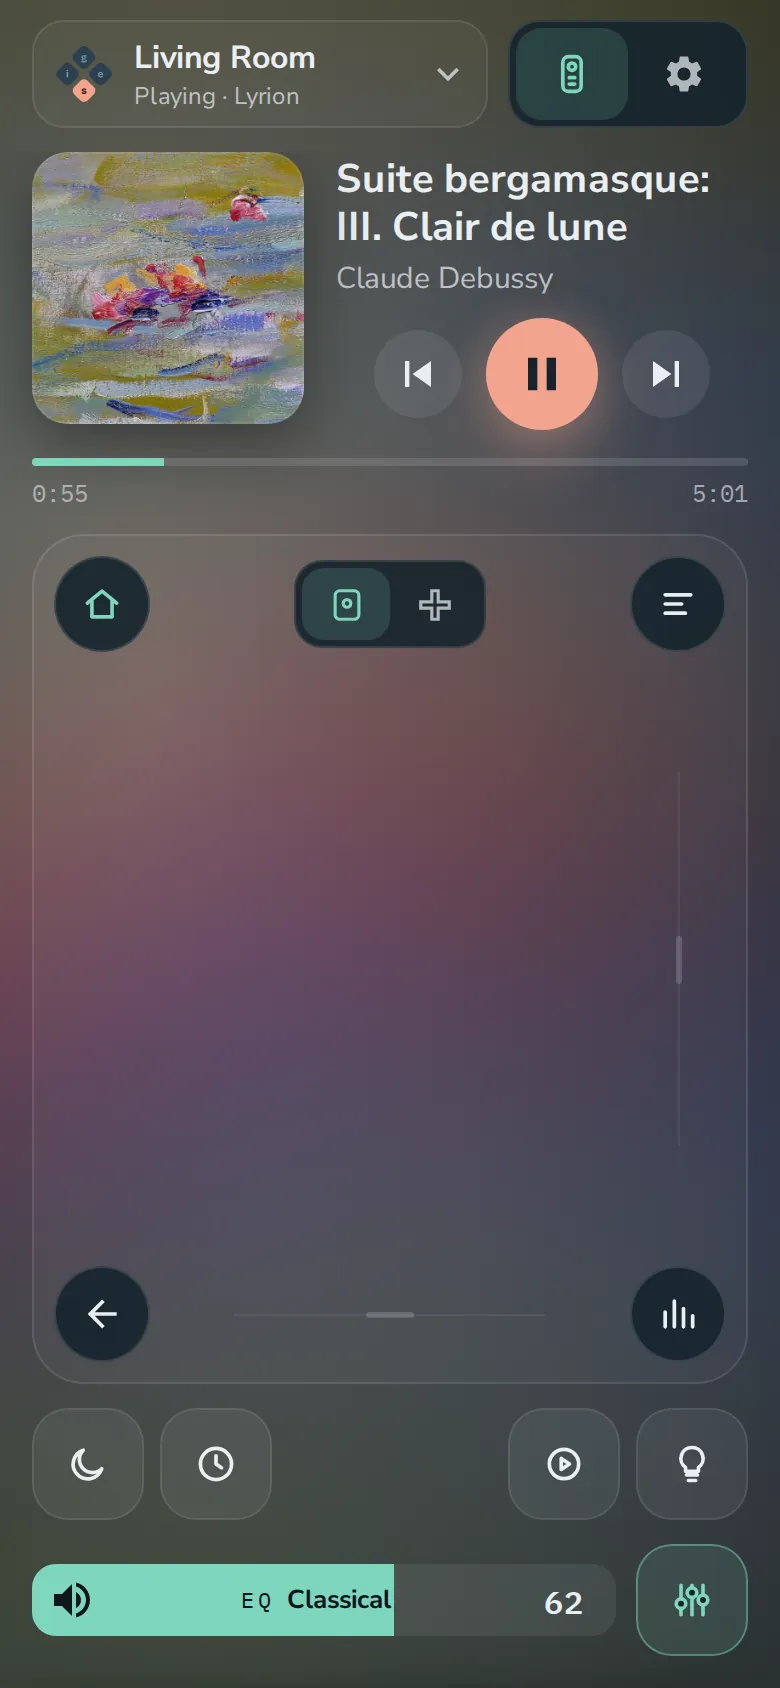
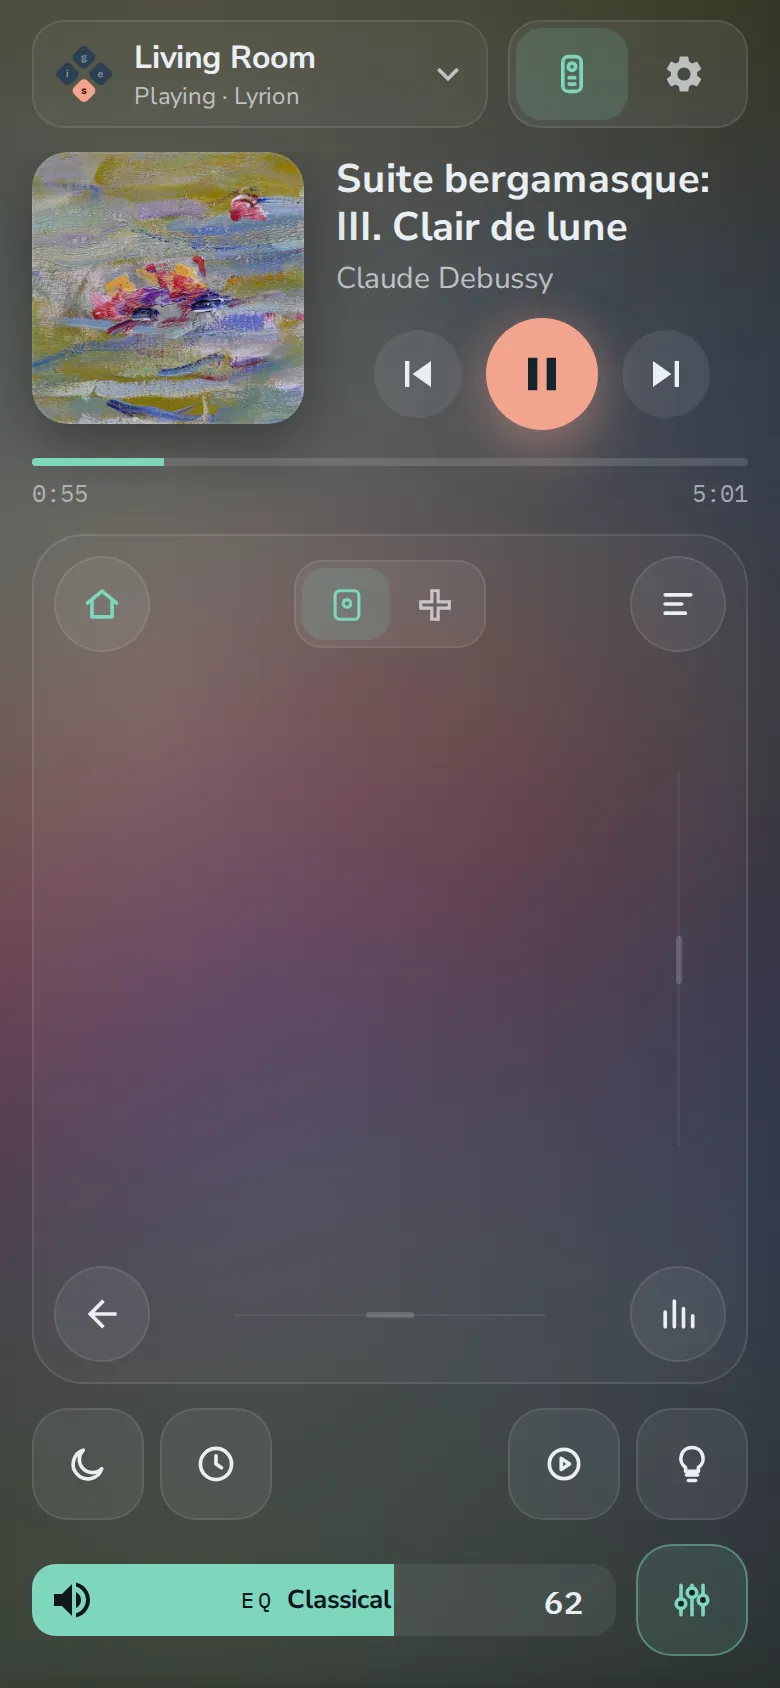
Docs: the remote's width and its buttons in the technical guide; the manual's phone pictures retaken (demo library)

diff --git a/docs/tech/ui.md b/docs/tech/ui.md
@@ -521,9 +521,12 @@ and the volume row (`VolumeRow.svelte`: `POST /volume` one request at a time,
 `fixed_mute` is not null, ADR-0165; the EQ button). **Without one**
 (`headless`): `RemoteNoScreen.svelte`, whose seek bar sends `POST
 /transport/seek` on release while `controls.available` has `seek`. Behind
-both, the panel's background, with the blurred cover. The column is at most
-412 px wide; shorter than the drawing's 780 px, the touch area gives way to
-312 px (the cover without a screen to 140 px), then the Remote page scrolls.
+both, the panel's background, with the blurred cover. The column fills a
+phone up to 480 px wide and is 412 px, centred, on a wider screen; the touch
+area's buttons and the two switches take the quick actions' ground
+(`--remote-button-ground`). Shorter than the drawing's 780 px, the touch
+area gives way to 312 px (the cover without a screen to 140 px), then the
+Remote page scrolls.
 
 - **The trackpad**: ADR-0121's gestures over `/touchpad` (`move`, `tap`,
   two-finger `scroll`, `zoom`; whole pixels each frame, the fraction kept).
